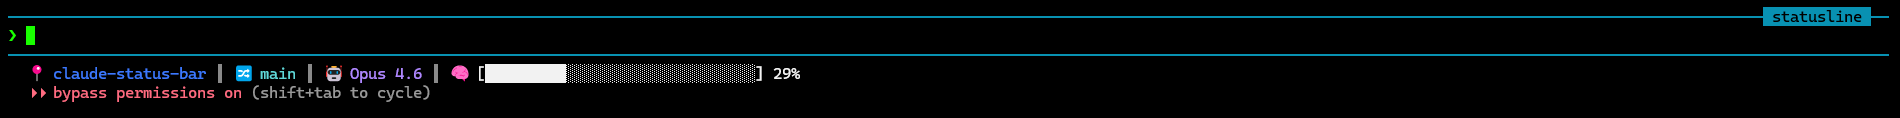
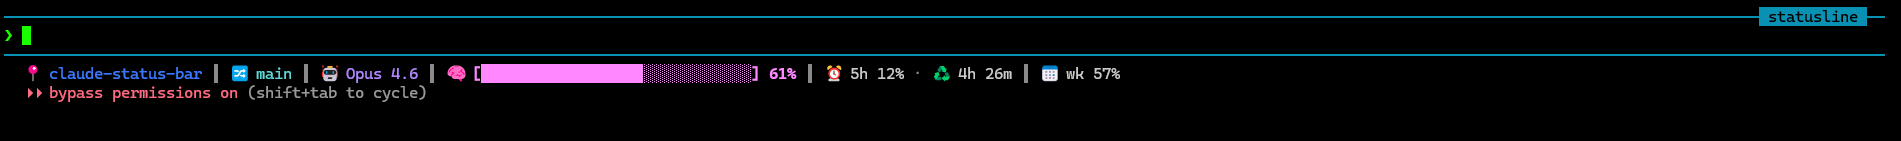
feat: rate-limit segments with 5h reset countdown, pink brain bar
Read rate_limits.{five_hour,seven_day}.used_percentage from Claude
Code's input JSON and render each as its own segment. The 5-hour
segment appends a resets_at countdown formatted as 47m / 3h / 1h 47m
/ <1m. Color thresholds on both: white below 70%, yellow at 70-89%,
red at 90%+. Each piece is independently optional - missing fields
just drop the corresponding segment.

Switch the brain context bar from bold white to bold pink (256-color
213) so it stays visually distinct from the white-by-default rate-
limit segments to its right.

Refresh screenshot and bring README, CLAUDE.md, screenshots/README,
and CHANGELOG into sync. Render time stays at ~16 ms (PowerShell
Measure-Command, 20-run average).

diff --git a/statusline.c b/statusline.c
@@ -15,6 +15,7 @@
 #include <string.h>
 #include <io.h>
 #include <fcntl.h>
+#include <time.h>
 
 /* ----------- JSON helpers (good enough for our known schema) ----------- */
 
@@ -227,6 +228,46 @@ int main(void) {
     long long cache_read     = json_get_int(cw, "cache_read_input_tokens", 0);
     long long used_tokens    = input_tokens + cache_creation + cache_read;
 
+    /* Rate-limit usage — same numbers /usage shows. Scoped per-window so the
+     * "used_percentage" lookup can't accidentally hit context_window's field
+     * (or the wrong rate-limit window). Both windows are optional, and the
+     * 5-hour reset countdown is independently optional — anything missing
+     * is just omitted from the rendered line. */
+    double    rl_5h_pct    = -1.0;
+    double    rl_wk_pct    = -1.0;
+    long long rl_5h_resets = 0;
+    const char *rl = strstr(input, "\"rate_limits\"");
+    if (rl) {
+        const char *fh = strstr(rl, "\"five_hour\"");
+        if (fh) {
+            rl_5h_pct    = json_get_double(fh, "used_percentage", -1.0);
+            rl_5h_resets = json_get_int(fh, "resets_at", 0);
+        }
+        const char *sd = strstr(rl, "\"seven_day\"");
+        if (sd) rl_wk_pct = json_get_double(sd, "used_percentage", -1.0);
+    }
+
+    /* Format the 5-hour reset countdown into a compact human-readable string:
+     *     <1m  |  47m  |  3h  |  1h 47m
+     * Empty string if resets_at is missing, zero, or already in the past. */
+    char reset_5h[16];
+    reset_5h[0] = 0;
+    if (rl_5h_resets > 0) {
+        long long secs = rl_5h_resets - (long long)time(NULL);
+        if (secs > 0) {
+            if (secs < 60) {
+                snprintf(reset_5h, sizeof(reset_5h), "<1m");
+            } else {
+                long long mins = (secs + 30) / 60;  /* round to nearest minute */
+                long long h = mins / 60;
+                long long m = mins % 60;
+                if (h == 0)      snprintf(reset_5h, sizeof(reset_5h), "%lldm", m);
+                else if (m == 0) snprintf(reset_5h, sizeof(reset_5h), "%lldh", h);
+                else             snprintf(reset_5h, sizeof(reset_5h), "%lldh %lldm", h, m);
+            }
+        }
+    }
+
     /* Autocompact reserve — the slice Claude Code withholds before auto-
      * compaction fires. Default 16.5% (matches the "Autocompact buffer" row
      * /context displays: 33k on a 200k window, 165k on a 1M window). The
@@ -331,10 +372,59 @@ int main(void) {
 
     if (free_pct >= 0 && bar[0]) {
         fputs(SEP, stdout);
-        /* 🧠 U+1F9E0 = F0 9F A7 A0 */
-        fputs("\x1b[1;37m\xf0\x9f\xa7\xa0 [", stdout);
+        /* 🧠 U+1F9E0 = F0 9F A7 A0. Color 213 (bold pink) — distinct from
+         * the white the rate-limit defaults render in, so the brain bar
+         * doesn't visually merge with the segments to its right. */
+        fputs("\x1b[1;38;5;213m\xf0\x9f\xa7\xa0 [", stdout);
         fputs(bar, stdout);
         printf("] %d%%", free_pct);
+        fputs("\x1b[0m", stdout);
+    }
+
+    /* Rate-limit segments. The 5-hour and weekly windows now live in their
+     * own ┃-bracketed chunks — once the 5h chunk gained a reset countdown
+     * it had enough internal structure that bundling it with the weekly
+     * percentage read as a tangle.
+     *
+     * Color thresholds apply to BOTH the percentage and the countdown text:
+     *   < 70%   white   (color 37)
+     *   70-89%  yellow  (color 220)
+     *   >= 90%  red     (color 196)
+     * The middle dot between the percentage and the countdown stays gray
+     * (color 245) — it's structural punctuation, not data. Each piece is
+     * independently optional: a missing percentage drops the whole chunk;
+     * a missing/stale resets_at drops just the countdown half. */
+    if (rl_5h_pct >= 0.0) {
+        int pct = (int)(rl_5h_pct + 0.5);
+        const char *col = "\x1b[37m";
+        if (pct >= 90)      col = "\x1b[38;5;196m";
+        else if (pct >= 70) col = "\x1b[38;5;220m";
+        fputs(SEP, stdout);
+        fputs(col, stdout);
+        /* ⏰ U+23F0 + VS16 = E2 8F B0 EF B8 8F */
+        fputs("\xe2\x8f\xb0\xef\xb8\x8f 5h ", stdout);
+        printf("%d%%", pct);
+        fputs("\x1b[0m", stdout);
+        if (reset_5h[0]) {
+            /* " · " — gray middle dot (U+00B7 = C2 B7) wrapped in color 245 */
+            fputs(" \x1b[38;5;245m\xc2\xb7\x1b[0m ", stdout);
+            fputs(col, stdout);
+            /* ♻ U+267B + VS16 = E2 99 BB EF B8 8F */
+            fputs("\xe2\x99\xbb\xef\xb8\x8f ", stdout);
+            fputs(reset_5h, stdout);
+            fputs("\x1b[0m", stdout);
+        }
+    }
+    if (rl_wk_pct >= 0.0) {
+        int pct = (int)(rl_wk_pct + 0.5);
+        const char *col = "\x1b[37m";
+        if (pct >= 90)      col = "\x1b[38;5;196m";
+        else if (pct >= 70) col = "\x1b[38;5;220m";
+        fputs(SEP, stdout);
+        fputs(col, stdout);
+        /* 📅 U+1F4C5 = F0 9F 93 85 */
+        fputs("\xf0\x9f\x93\x85 wk ", stdout);
+        printf("%d%%", pct);
         fputs("\x1b[0m", stdout);
     }
 

diff --git a/CLAUDE.md b/CLAUDE.md
@@ -1,20 +1,22 @@
 # claude-modern-status-bar
 
-Native C status line for Claude Code on Windows. Single ~280-line source file,
-compiles to a ~160 KB self-contained `.exe`. Renders in ~21 ms per invocation
-(measured with PowerShell `Measure-Command`) — roughly 70× faster than the
+Native C status line for Claude Code on Windows. Single ~430-line source file,
+compiles to a ~160 KB self-contained `.exe`. Renders in ~16 ms per invocation
+(measured with PowerShell `Measure-Command`) — roughly 90× faster than the
 original bash + python + git + awk pipeline it replaced.
 
 ## What it renders
 
 ```
-📍 <folder>  ┃  🔀 <branch>  ┃  🤖 <model>  ┃  🧠 [██████░░░░░░░░░░░░░░░░░░░░░░] 65%
+📍 <folder>  ┃  🔀 <branch>  ┃  🤖 <model>  ┃  🧠 [██████░░░░░░░░░░░░░░░░░░░░░░] 65%  ┃  ⏰ 5h 23% · ♻ 4h 26m  ┃  📅 wk 41%
 ```
 
 - **Folder**: basename of `current_dir`, bold blue, 📍 U+1F4CD
 - **Branch**: current git branch (or short SHA if detached), color 80, 🔀 U+1F500
 - **Model**: `display_name` from input JSON, color 141, 🤖 U+1F916
-- **Context bar**: 30 chars wide, **filled = FREE space**, color white, 🧠 U+1F9E0
+- **Context bar**: 30 chars wide, **filled = FREE space**, bold pink (color 213), 🧠 U+1F9E0
+- **5-hour usage**: `rate_limits.five_hour.used_percentage` from input JSON, plus a `resets_at` countdown formatted as `47m` / `3h` / `1h 47m` / `<1m`. Color thresholds apply to BOTH the percentage and the countdown text: white (37) < 70%, yellow (220) at 70–89%, red (196) at 90%+. ⏰ U+23F0 (with VS16) for the percentage, ♻ U+267B (with VS16) for the countdown, separated by a gray middle dot · U+00B7 in color 245. The whole segment is omitted if `five_hour` is missing; the countdown half is omitted independently if `resets_at` is missing, zero, or in the past.
+- **Weekly usage**: `rate_limits.seven_day.used_percentage`, same color thresholds, no countdown. 📅 U+1F4C5. Omitted if `seven_day` is missing.
 - **Separator**: U+2503 `┃` in color 245
 
 The bar shows *free* space, not used — matches what `/context` reports as
@@ -90,7 +92,10 @@ If the output looks right (colors, emojis, bar), the binary is healthy.
    file containing `gitdir: <path>`). Saves ~280 ms per render.
 2. **No JSON parser.** `json_find_value()` is a `strstr`-based key search;
    the `":` suffix on the needle is enough to avoid false matches against
-   `"total_input_tokens":` when looking for `"input_tokens":`.
+   `"total_input_tokens":` when looking for `"input_tokens":`. The
+   rate-limit lookups are scoped per-window first (`strstr(input,
+   "\"five_hour\"")`, then look up `used_percentage` inside) so they can't
+   collide with `context_window.used_percentage`.
 3. **Static CRT (`/MT`).** No DLL load at startup — the binary is self
    contained. Removes ~50-80 ms on cold starts.
 4. **Raw UTF-8 byte literals.** Emojis and box-drawing chars are written as
@@ -115,11 +120,18 @@ Only the fields we actually read:
       "cache_creation_input_tokens": 10000,
       "cache_read_input_tokens": 21000
     }
+  },
+  "rate_limits": {
+    "five_hour": { "used_percentage": 23, "resets_at": 1744387200 },
+    "seven_day": { "used_percentage": 41 }
   }
 }
 ```
 
 Nested structure is fine — the `strstr` scan finds keys anywhere in the blob.
+The `rate_limits` block and either window inside it are optional; missing
+fields just drop the corresponding segment from the rendered line.
+`resets_at` is a Unix epoch in seconds.
 
 ## Performance history
 
@@ -128,7 +140,7 @@ Nested structure is fine — the `strstr` scan finds keys anywhere in the blob.
 | Original (bash wrapper + python + git + awk) | ~1500 ms        |
 | All-in-one Python                            | ~420 ms         |
 | `python -SE` (skip `site.py` + env scan)     | ~111 ms         |
-| **Native C (this repo)**                     | **~21 ms**      |
+| **Native C (this repo)**                     | **~16 ms**      |
 
 Timings measured with PowerShell `Measure-Command` piping `test/mock.json`.
 Bash benchmarks add ~80-130 ms of Git Bash fork overhead and are misleading —
@@ -140,7 +152,11 @@ the real cost.
 Edit `statusline.c` and rebuild. The interesting knobs:
 
 - **Colors**: search for `\x1b[38;5;` — 256-color ANSI codes. 34=blue,
-  141=purple, 80=cyan-green, 245=gray, 37=white.
+  141=purple, 80=cyan-green, 213=pink (brain bar), 245=gray, 37=white,
+  220=yellow (rate-limit warn), 196=red (rate-limit crit).
+- **Rate-limit thresholds**: the `if (pct >= 90) ... else if (pct >= 70)`
+  ladders in each rate-limit render block. Edit both blocks (5-hour and
+  weekly) if you want them to stay in sync.
 - **Bar width**: `enum { BAR_W = 30 };` near the bottom of `main()`.
 - **Bar glyphs**: `U+2588` (█ full) and `U+2591` (░ light shade).
 - **Separator**: `static const char SEP[] = ...` — currently `┃`.

diff --git a/README.md b/README.md
@@ -1,19 +1,21 @@
 # claude-modern-status-bar
 
-A native C status line for [Claude Code](https://docs.claude.com/en/docs/claude-code) on Windows. Single ~280-line source file, compiles to a ~160 KB self-contained `.exe`, renders in **~21 ms** per invocation — roughly **70× faster** than the bash + python + git + awk pipeline most people start with.
+A native C status line for [Claude Code](https://docs.claude.com/en/docs/claude-code) on Windows. Single ~430-line source file, compiles to a ~160 KB self-contained `.exe`, renders in **~16 ms** per invocation — roughly **90× faster** than the bash + python + git + awk pipeline most people start with.
 
 ![Status bar screenshot](screenshots/statusbar.png)
 
 ## What you get
 
 ```
-folder  |  branch  |  model  |  [##############..............] 47%
+folder  |  branch  |  model  |  [bar] 47%  |  5h 23% · 4h 26m  |  wk 41%
 ```
 
 - **Folder** — basename of the current working directory (bold blue)
 - **Branch** — current git branch, or short SHA if detached HEAD (cyan)
 - **Model** — the active Claude model from Claude Code's input JSON (purple)
-- **Context bar** — 30-char bar showing **free space remaining** before auto-compact, with the matching percentage (white)
+- **Context bar** — 30-char bar showing **free space remaining** before auto-compact, with the matching percentage (bold pink)
+- **5-hour usage** — the same percentage `/usage` shows for the rolling 5-hour limit, plus the time until it resets. White under 70%, yellow at 70–89%, red at 90%+. Reset countdown formats as `47m` / `3h` / `1h 47m` / `<1m`. Omitted entirely if Claude Code doesn't pipe in the `rate_limits.five_hour` field; the countdown half is omitted independently if `resets_at` is missing or already in the past.
+- **Weekly usage** — same as above for the rolling 7-day limit, without the countdown. Same color thresholds.
 - **Separator** — gray vertical bar between segments
 
 The context bar shows *free* space (not used), to match what Claude Code's `/context` command labels "Free space". The math accounts for the 16.5% autocompact buffer Claude Code reserves before auto-compaction fires.
@@ -22,14 +24,14 @@ The context bar shows *free* space (not used), to match what Claude Code's `/con
 
 Claude Code lets you set a custom command as your status line. The default approach in most community examples is a bash script that pipes through `jq`, calls `git`, and shells out to `awk` or `python`. On Windows, every one of those is a fork through Git Bash, and the cumulative cost is **~1.5 seconds per render**. That's perceptible keystroke lag, every time you type.
 
-This project replaces all of that with one ~280-line C file that:
+This project replaces all of that with one ~430-line C file that:
 
 - parses just the JSON fields it needs (no `jq`)
 - reads `.git/HEAD` directly (no `git` fork)
 - statically links the C runtime (no DLL load)
 - writes UTF-8 + ANSI colors straight to stdout
 
-The result is **~21 ms per render**, well under the ~30 ms ceiling where keystroke lag becomes noticeable.
+The result is **~16 ms per render**, well under the ~30 ms ceiling where keystroke lag becomes noticeable.
 
 ## Requirements
 
@@ -124,8 +126,9 @@ All knobs live in `statusline.c`. Edit, then run `deploy.bat`.
 | **Bar width** | `enum { BAR_W = 30 };` near the bottom of `main()` | 30 chars |
 | **Bar glyphs** | UTF-8 escapes in the `bar` builder | full block + light shade |
 | **Separator** | `static const char SEP[]` | vertical bar (U+2503) |
-| **Colors** | `\x1b[38;5;<n>m` ANSI 256-color codes | 34=blue, 80=cyan, 141=purple, 245=gray, 37=white |
-| **Emojis** | Raw UTF-8 byte sequences in the final `fputs` calls | folder, branch, robot, brain |
+| **Colors** | `\x1b[38;5;<n>m` ANSI 256-color codes | 34=blue, 80=cyan, 141=purple, 213=pink, 245=gray, 37=white, 220=yellow (warn), 196=red (crit) |
+| **Emojis** | Raw UTF-8 byte sequences in the final `fputs` calls | folder, branch, robot, brain, clock, recycle, calendar |
+| **Rate-limit color thresholds** | the `if (pct >= 90) ... else if (pct >= 70) ...` ladders in the rate-limit render blocks | white < 70%, yellow 70–89%, red ≥ 90% |
 | **Autocompact reserve %** | `double autocompact_pct = 16.5;` | 16.5% |
 
 ### Override the autocompact reserve at runtime
@@ -157,7 +160,7 @@ Measure-Command { Get-Content test\mock.json -Raw | .\statusline.exe } | Select 
 | Original (bash + python + git + awk) | ~1500 ms |
 | All-in-one Python | ~420 ms |
 | `python -SE` (skip `site.py` + env scan) | ~111 ms |
-| **Native C (this repo)** | **~21 ms** |
+| **Native C (this repo)** | **~16 ms** |
 
 Bash benchmarks add ~80-130 ms of Git Bash fork overhead and are misleading. Claude Code spawns the binary via Win32 directly, so PowerShell numbers reflect production cost. **Always measure with PowerShell.**
 

diff --git a/CHANGELOG.md b/CHANGELOG.md
@@ -5,6 +5,18 @@ All notable changes to claude-modern-status-bar are documented here.
 The format is based on [Keep a Changelog](https://keepachangelog.com/en/1.1.0/),
 and this project follows [Semantic Versioning](https://semver.org/).
 
+## [Unreleased]
+
+### Added
+
+- **5-hour and weekly rate-limit segments.** Reads `rate_limits.five_hour.used_percentage` and `rate_limits.seven_day.used_percentage` from Claude Code's input JSON and renders each as its own ┃-bracketed segment with a clock or calendar icon. Color thresholds apply to both: white below 70%, yellow at 70–89%, red at 90%+. Either segment is omitted if the corresponding window is missing from the JSON.
+- **5-hour reset countdown.** Reads `rate_limits.five_hour.resets_at` (Unix epoch) and appends a human-readable countdown after a gray middle dot — formats as `47m` / `3h` / `1h 47m` / `<1m`. Inherits the same color threshold as the percentage. Omitted independently if `resets_at` is missing, zero, or already in the past.
+
+### Changed
+
+- **Brain context bar color is now bold pink (256-color 213)** instead of bold white, so it doesn't visually merge with the white-by-default rate-limit segments to its right.
+- **Render time improved to ~16 ms** (PowerShell `Measure-Command`, 20-run average), slightly faster than the 1.0.0 baseline despite the additional rate-limit parsing and rendering.
+
 ## [1.0.0] — 2026-04-11
 
 Initial public release.

diff --git a/screenshots/README.md b/screenshots/README.md
@@ -10,6 +10,7 @@ A screenshot of the rendered status bar in Windows Terminal, showing:
 - Git branch (run inside any git repo)
 - Model name
 - The full context bar with a meaningful free percentage (around 60–80% free is ideal so both the filled and unfilled portions of the bar are visible)
+- The 5-hour and weekly rate-limit segments (only render when Claude Code is actively passing `rate_limits` in the input JSON)
 
 ## Save as
 
